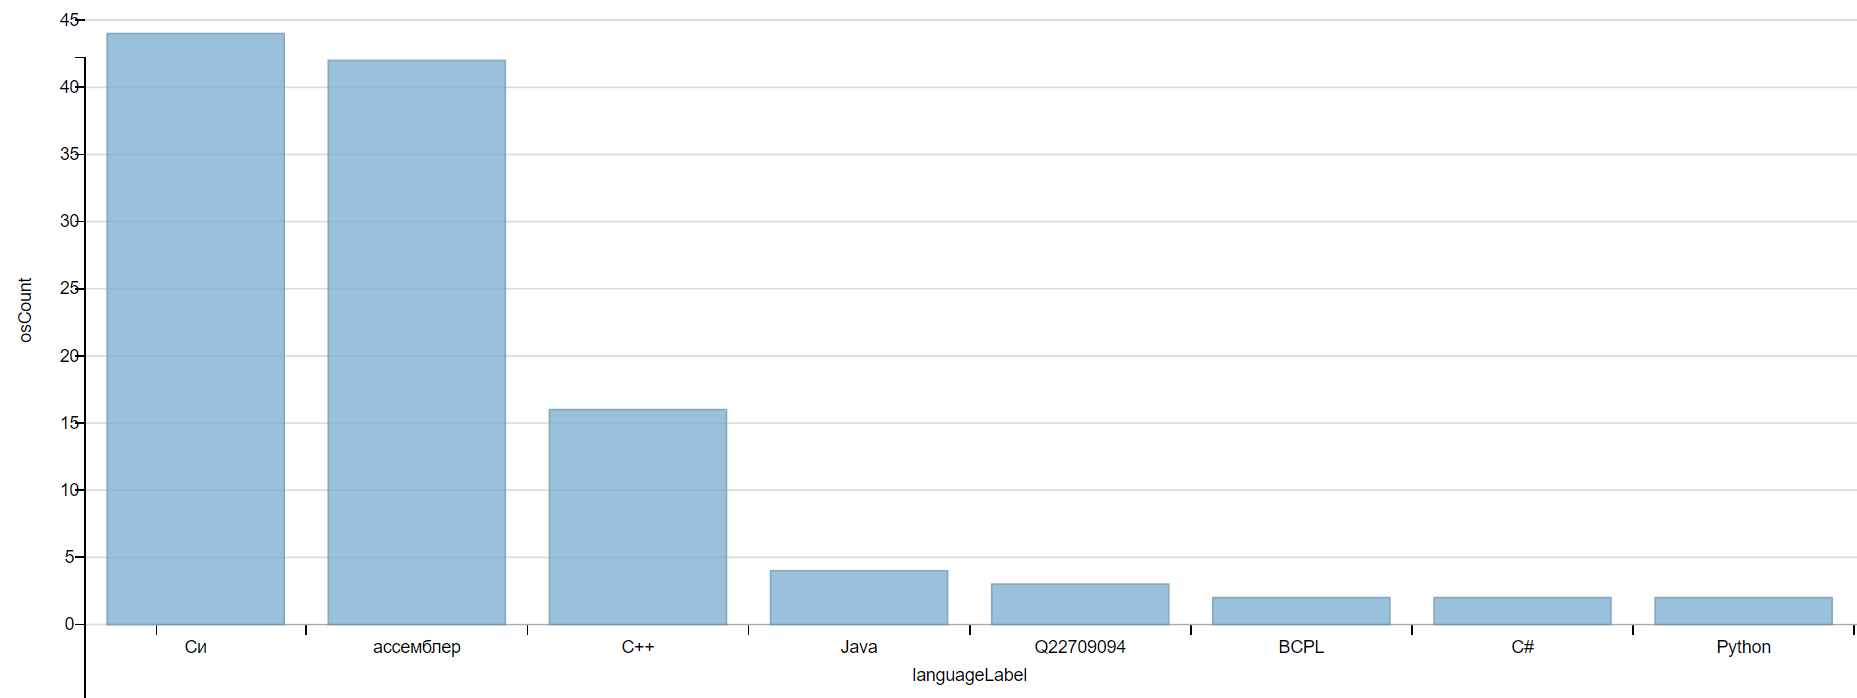
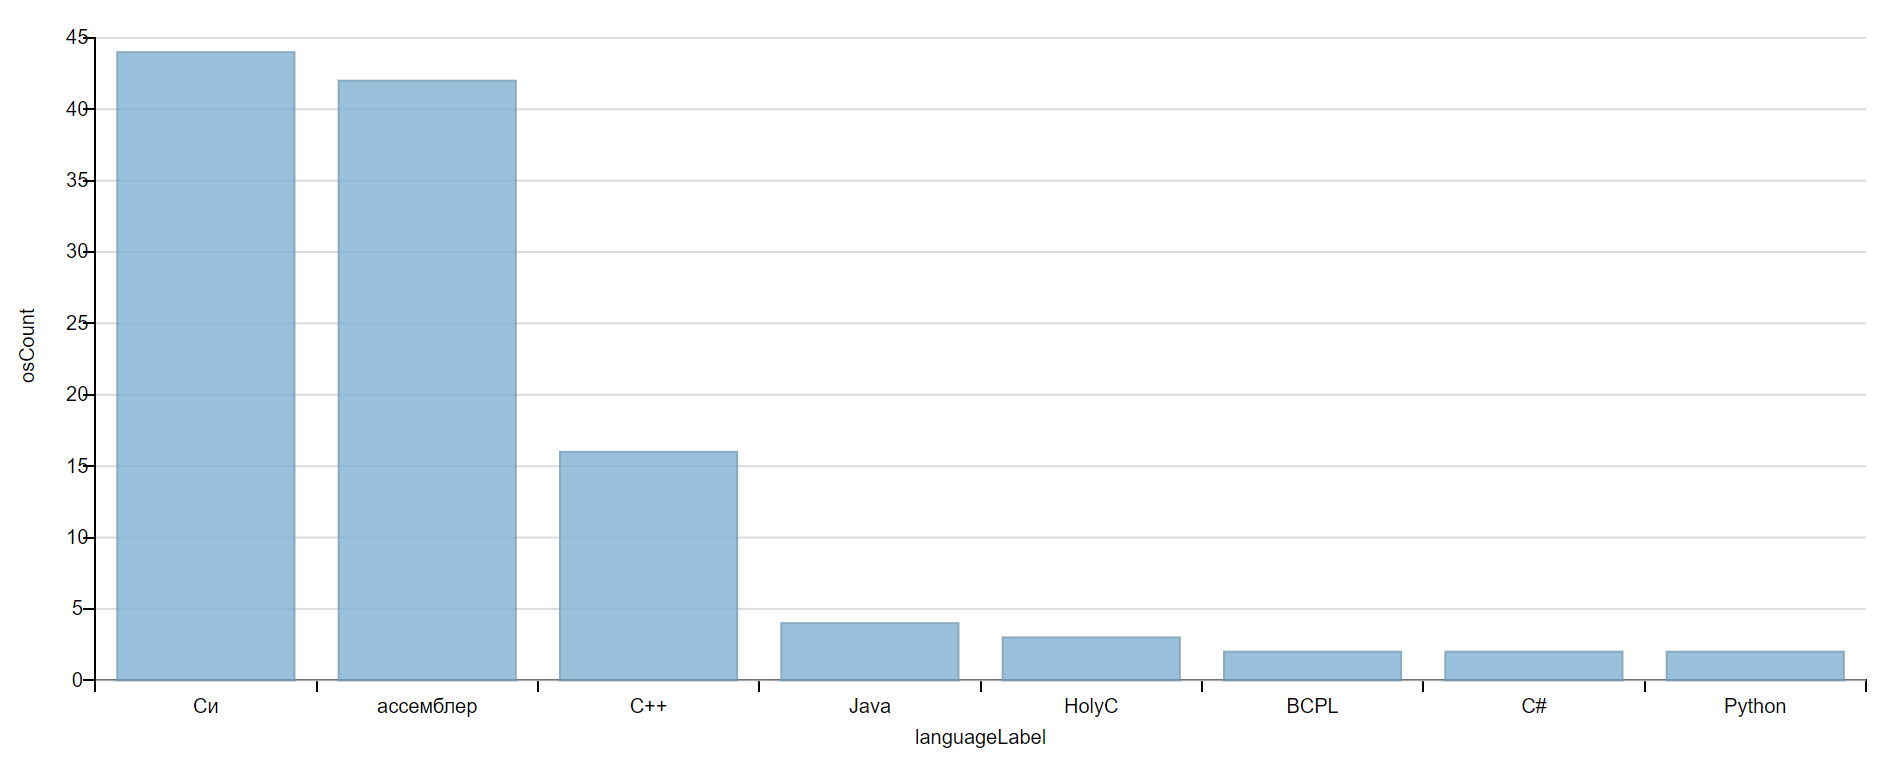
Operating system: Add listings and update images

diff --git a/ru/chapter/operating_system.tex b/ru/chapter/operating_system.tex
@@ -3,6 +3,100 @@
 
 В статье исследуется объект Викиданных <<операционная система>> (operating system) и его свойства. В каждом из разделов представлены задачи, решённые с помощью SPARQL-запросов. В их числе: нахождение экземпляров объекта <<операционная система>>, построение списка операционных систем (ОС) по предку, по времени создания, по языку, на котором написана ОС. Также построена гистограмма, показывающая количество программ, написанных на том или ином языке программирования, и долю того, сколько из них работает под той или иной ОС. У многого программного обеспечения не указан язык программирования, на котором оно разрабатывалось. Для улучшения результатов решения вышеописанных задач отдельные объекты Викиданных были дополнены свойством <<язык программирования>>.
 
+
+\section{Экземпляры объекта <<Операционные системы>>}
+Ниже представлен SPARQL-запрос для получения списка всех операционных систем (листинг \ref{lst:all_operating_systems}).
+
+\begin{lstlisting}[ language=SPARQL, 
+caption={\href{https://w.wiki/jgv}{Список всех опрационных систем}\protect\footnotemark},
+label=lst:all_operating_systems, 
+escapebegin=ку,escapeend=ку-ку>
+]
+SELECT ?os ?osLabel
+WHERE
+{
+	?os wdt:P31 wd:Q9135. # instance of operating system
+	SERVICE wikibase:label { bd:serviceParam wikibase:language "ru, en" }
+}
+\end{lstlisting}
+\footnotetext{Получено \num{510} операционных систем в 2017 году, и \num{1086} в 2020 году.}
+
+[+] Наиболее полными и проработанными операционными системами на Викиданных являются: \wdqName{Linux}{388}, \wdqName{Microsoft Windows}{1406}, \wdqName{Windows 8}{5046}
+
+[-] Почти пустыми и малоинформативными операционными системами оказались: \wdqName{SPIN}{16314510}, \wdqName{JavaOS}{1684163}, \wdqName{Atari TOS}{1574899}, \wdqName{Xubuntu}{72688}
+
+По данным ProWD у единственной в Викиданных отечественной операционной системы \wdqName{Miraculix}{4044344} 7 свойств. Лидерами по операционным системам всего мира являются \wdqName{Microsoft Windows}{1406} и \wdqName{Windows 8}{5046} имеющие по 24 свойства.
+
+
+\section{На чем основаны ОС}
+Ниже представлен SPARQL-запрос для получения списка основы операционных систем (листинг \ref{lst:base_of_operating_systems}).
+
+\begin{lstlisting}[ language=SPARQL, 
+caption={\href{https://w.wiki/jgv}{Список основ опрационных систем}\protect\footnotemark},
+label=lst:base_of_operating_systems, 
+escapebegin=ку,escapeend=ку-ку>
+]
+SELECT ?osLabel ?baseLabel
+WHERE
+{
+	?os wdt:P31 wd:Q9135. # instance of operating system
+	?os wdt:P144 ?base. # base on 
+	SERVICE wikibase:label { bd:serviceParam wikibase:language "ru, en" }
+}
+GROUP BY ?osLabel ?baseLabel
+\end{lstlisting}
+\footnotetext{Получено \num{47} результатов в 2017 году, и \num{118} в 2020 году.}
+
+Данный запрос показывает соответствие между <<Операционной Системой>> и ее <<предком>>, на котором она основана.
+
+
+\section{Время выпуска ОС}
+Ниже представлен SPARQL-запрос для получения списка операционных систем с датой их создания (листинг \ref{lst:inception_time_of_operating_systems}).
+\begin{lstlisting}[ language=SPARQL, 
+caption={\href{https://w.wiki/jgv}{Список операционных систем с датой их создания}\protect\footnotemark},
+label=lst:inception_time_of_operating_systems, 
+escapebegin=ку,escapeend=ку-ку>
+]
+SELECT ?osLabel ?time
+WHERE
+{
+	?os wdt:P31 wd:Q9135. # instance of operating system
+	?os wdt:P571 ?time. # inception time
+	SERVICE wikibase:label { bd:serviceParam wikibase:language "ru, en" }
+}
+GROUP BY ?osLabel ?time
+ORDER BY DESC(?time)
+\end{lstlisting}
+\footnotetext{Получено \num{30} результатов в 2017 году, и \num{238} в 2020 году.}
+
+Данный запрос показывает в красивой графической оболочке таймлайн создания(на самом деле выпуска) операционных систем. А еще так-же он показывает насколько плохо заполнены викиданные, так как в запросах выводится только 238 результатов. Что в свою очередь обозначает что у других <<объектов>> это поле попросту не заполнено. Хотя информация о <<дате выпуска>> не такая уж и секретная.
+
+\section{Кол-во ОС написанных на языках программирования}
+Ниже представлен SPARQL-запрос для получения списка языков программирования с количеством написанных на них ОС (листинг \ref{lst:count_os_on_languages}).
+
+\begin{lstlisting}[ language=SPARQL, 
+caption={\href{https://w.wiki/jgv}{Список языков программирования с количеством написанных на них ОС}\protect\footnotemark},
+label=lst:count_os_on_languages, 
+escapebegin=ку,escapeend=ку-ку>
+]
+SELECT ?lang (count(*) as ?count)
+WHERE 
+{
+	?os wdt:P31 wd:Q9135. # instance of operating system
+	?os wdt:P277 ?langObj. # created on programming language
+	OPTIONAL {
+		?langObj rdfs:label ?lang
+		filter (lang(?lang) = "en")
+	}
+}
+GROUP BY ?lang
+ORDER BY DESC(?count) ASC(?lang)
+\end{lstlisting}
+\footnotetext{Получено \num{24} результатов в 2017 году, и \num{37} в 2020 году.}
+
+Данный запрос показывает (только на основе заполненых викиданных, поэтому не факт что это правда) что преимущественно ОС пишут на языке Ассемблер, что несомненно является правдой, потому что это самый быстрый, но при этом удобный язык программирования. На втором и третьем месте разместились Си и C++, которые в свою очередь являются не худшим аналогом, так как несмотря на свою (относительно Ассемблера) <<медленность>>, они наиболее удобные и понятные ЯП.
+
+
 \section{Полнота данных}
 По данным на 2017 год с сайта www.operating-system.org удалось установить что существует порядка 611 операционных систем (не учитывая дистрибутивы Linux'а, коих количество превышает количество самих операционных систем). В то время как викиданные содержат информацию лишь о 510 операционных системах. И если просмотреть достаточно большое количество объектов из запрос, то станет ясно еще и то, что много из них еще и не очень хорошо заполнены, а то и вовсе практически пусты.
 
@@ -17,11 +111,63 @@
 \end{figure*}
 
 
+\section{Запрос показывает для каждого софта под каждую ОС на скольких языках он написан}
+Ниже представлен SPARQL-запрос показывающий для каждого софта под каждую ОС на скольких языках он написан (листинг \ref{lst:count_soft_on_os}).
+
+\begin{lstlisting}[ language=SPARQL, 
+caption={\href{https://w.wiki/jgv}{Список ос с количеством сфота для него}\protect\footnotemark},
+label=lst:count_soft_on_os, 
+escapebegin=ку,escapeend=ку-ку>
+]
+SELECT ?soft ?softLabel ?os ?osLabel (count(*) as ?count)
+WHERE
+{
+	?soft wdt:P306 ?os. # operating system on which a software works
+	?soft wdt:P277 ?lang. # programming language in which soft is developed
+	SERVICE wikibase:label { bd:serviceParam wikibase:language "ru, en" }
+}
+GROUP BY ?soft ?softLabel ?os ?osLabel
+ORDER BY DESC(?count) ASC(?lang)
+\end{lstlisting}
+\footnotetext{Получено \num{2259} результатов в 2017 году, и \num{6883} в 2020 году.}
+
+
+\section{Сколько ПО было написано под ОС с использованием того или иного языка}
+Ниже представлен SPARQL-запрос показывающий для каждого софта под каждую ОС на скольких языках он написан (листинг \ref{lst:count_soft_on_os}).
+
+\begin{lstlisting}[ language=SPARQL, 
+caption={\href{https://w.wiki/jgv}{Список языков программирования с количеством написанного для него ПО}\protect\footnotemark},
+label=lst:count_soft_on_os, 
+escapebegin=ку,escapeend=ку-ку>
+]
+SELECT ?osLabel ?lang1Label (count(*) as ?count)
+WHERE
+{
+	?soft wdt:P306 ?os. # operating system on which a software works
+	?soft wdt:P277 ?lang1. # programming language in which soft is developed
+	?os wdt:P277 ?lang2. # programming language in which OS is developed
+	SERVICE wikibase:label { bd:serviceParam wikibase:language "ru, en" }
+}
+GROUP BY ?os ?osLabel ?lang1Label
+ORDER BY DESC(?count) DESC(?osLabel)
+\end{lstlisting}
+\footnotetext{Получено \num{2259} результатов в 2017 году, и \num{6883} в 2020 году.}
+
+ Данный запрос отлично показывает, что большая часть ПО, написанного под \wdqName{macOS}{14116}, написано на \wdqName{C++}{2407}, \wdqName{Си}{15777}, \wdqName{Python}{28865}. Под \wdqName{Android}{94} - \wdqName{C++}{2407} и \wdqName{Java}{251}. Под \wdqName{iOS}{48493} - \wdqName{C++}{2407}.
+
+
 Гистограмма на рисунке~\ref{fig:count-software-written-on-languages} позволяет увидеть для каждого языка программирования количество программ, которые были на нем написаны, а также под какими ОС работают данные программы. Из графика видно, что наибольшее число программ пишется на языках: С++ (2503 программ), Си (2566 программ), Java (799 программ), Python (717 программ),  JavaScript (344 программы).
+
+
+\begin{figure*}[h!]
+	\includegraphics{./chapter/operating_system/Programming-languages-and-count-of-programms-written-on-them-and-OS-2020.png}
+	\caption{Языки программирования и количества ОС, под которыми работают программы, написанные на них 2020 год.}
+	\label{fig:count-software-written-on-languages}
+\end{figure*}
 
 Рассмотрим каждый из этих языков подробнее.
 
-Большая часть программ на языке С++ пишется под windows (472 программы) и macOs (300 программ). Несмотря на то, что язык был разработан в 1972, он пока не теряет своей популярности за счет, вероятно, того, что используется для написания низкоуровневых приложений, т.к. по "близости" к аппаратному уровню уступает разве что ассемлеру.
+Большая часть программ на языке С++ пишется под windows (472 программы) и macOs (300 программ). Несмотря на то, что язык был разработан в 1972, он пока не теряет своей популярности за счет, вероятно, того, что используется для написания низкоуровневых приложений, т.к. по <<близости>> к аппаратному уровню уступает разве что ассемлеру.
 
 Большая часть программ на языке С++ пишется под macOS (400 программ) и windows (700 программ) и Linux (400 программы). Вероятно, С++ будет лидировать еще долгое время, т.к. на текущий момент он используется для решений, требующих высокой производительности, чего не позволяют высокоуровневые языки, как Java или C\#.
 
@@ -31,11 +177,4 @@
 
 Большая часть программ на языке Python пишется под macOS (212 программ) и Linux (107 программ). Высокоуровневый язык с низким порогом вхождения. Используется, например, для написания веб-приложений и анализа данных.
 
-Глядя на гистограмму, можно сделать вывод, что каждый из данных языков занял свою "нишу" в области разработки ПО и применяется для определенного круга задач. Также вижно, что большая часть ПО пишется под macOS (900 программ), windows (1500 программ), Linux (1200 программ) или Андроид (300 программ).
-
-
-\begin{figure*}[h!]
-	\includegraphics{./chapter/operating_system/Programming-languages-and-count-of-programms-written-on-them-and-OS-2020.png}
-	\caption{Языки программирования и количества ОС, под которыми работают программы, написанные на них 2020 год.}
-	\label{fig:count-software-written-on-languages}
-\end{figure*}
+Глядя на гистограмму, можно сделать вывод, что каждый из данных языков занял свою <<нишу>> в области разработки ПО и применяется для определенного круга задач. Также вижно, что большая часть ПО пишется под macOS (900 программ), windows (1500 программ), Linux (1200 программ) или Андроид (300 программ).
